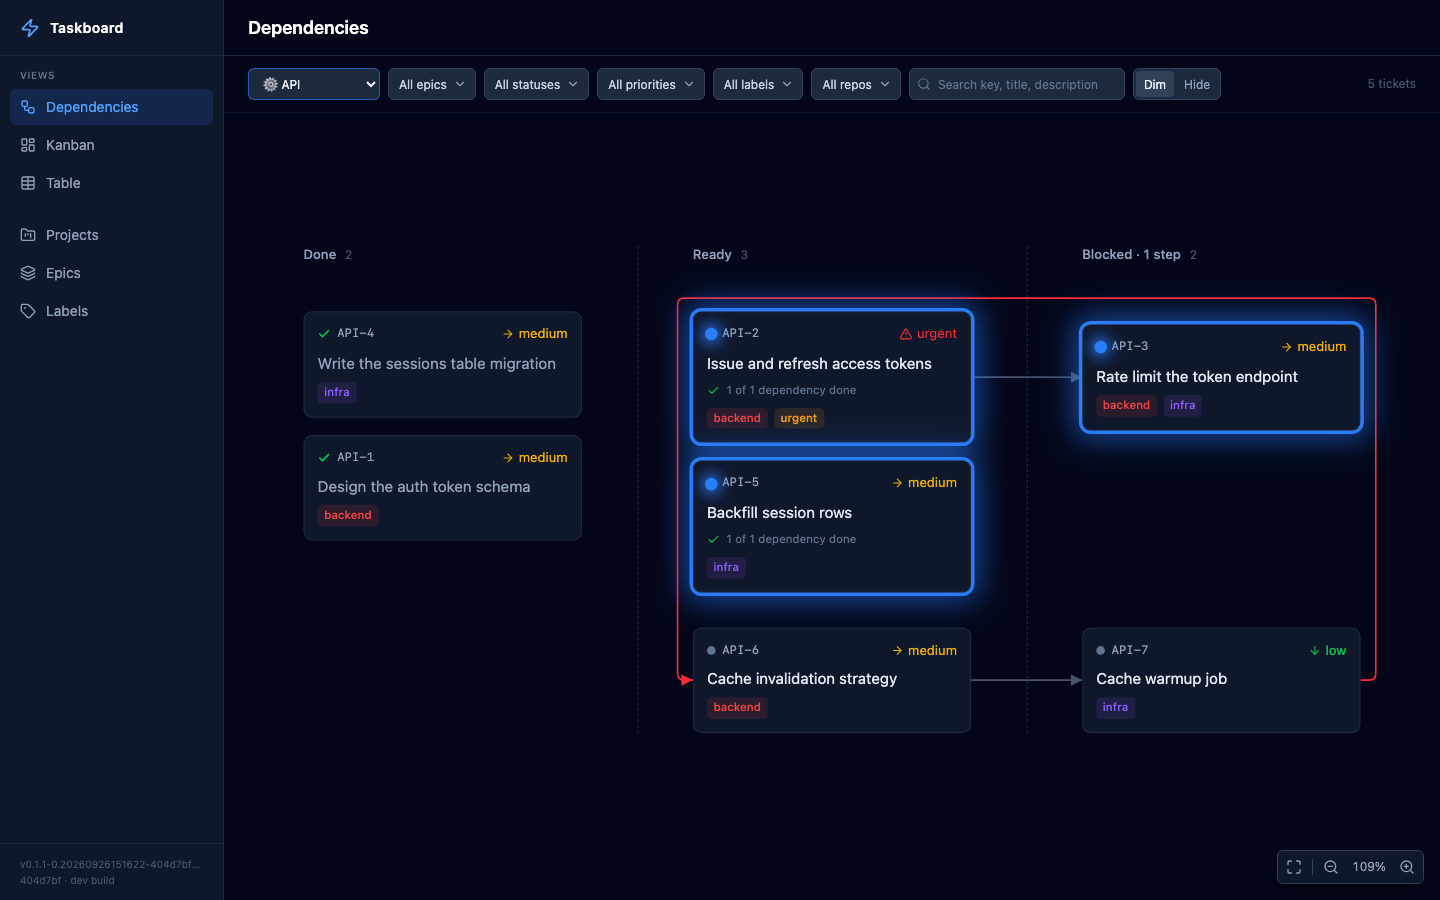
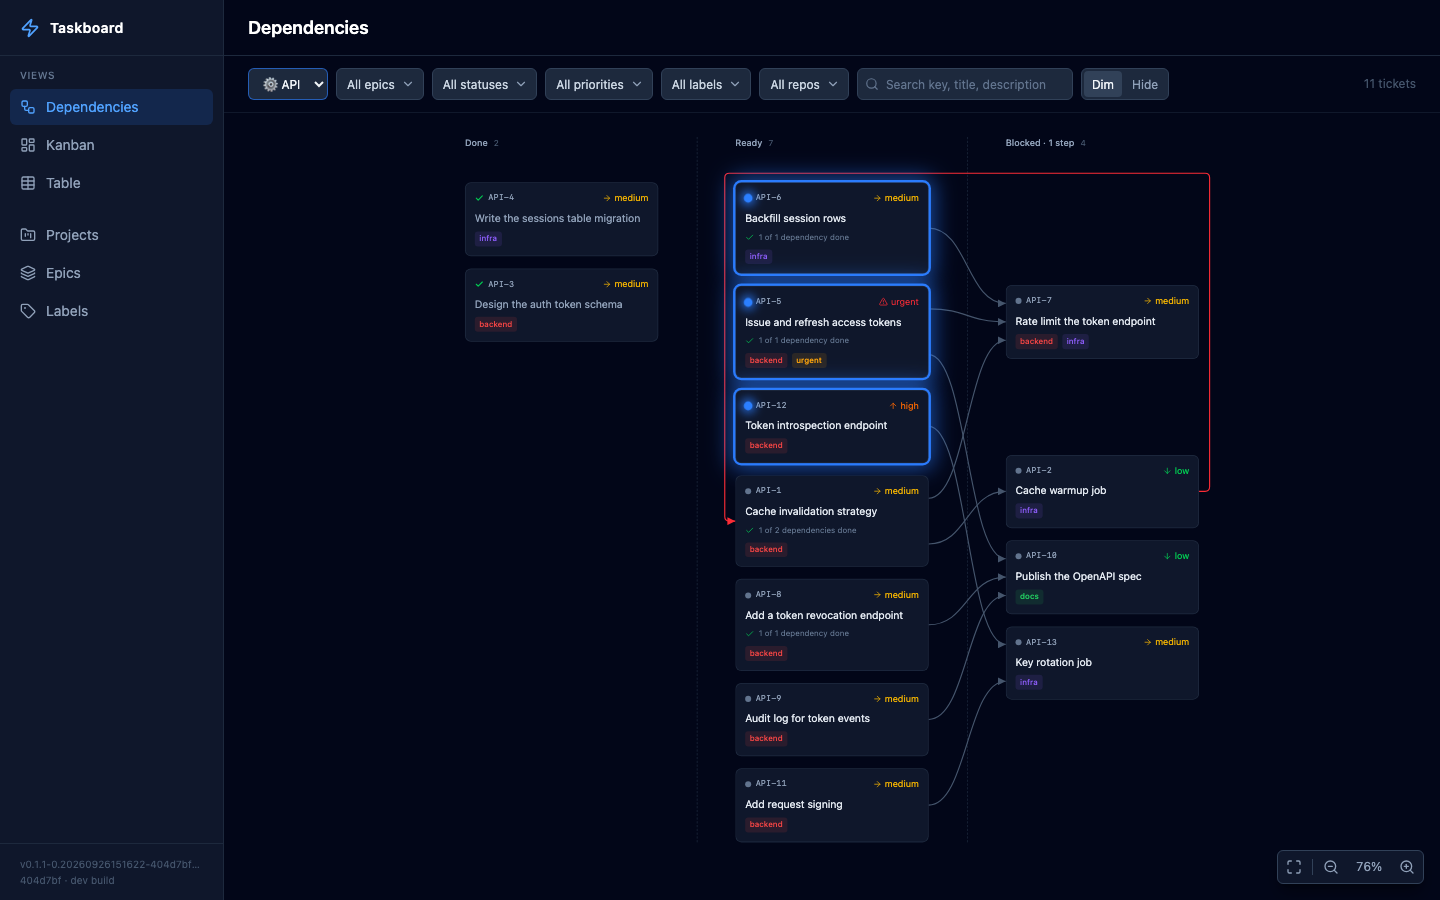
docs: say only the closing edge of a cycle is red, retake the graph screenshot

diff --git a/README.md b/README.md
@@ -15,7 +15,7 @@ Single binary. SQLite-backed. No Docker, no external database, no runtime depend
 ## Features
 
 - **Views** — the sidebar's Views group shows the same tickets three ways:
-  - **Dependencies**, the home page at `/`, puts open tickets in columns by how many steps of unfinished work block them, with arrows from each blocker and cycles drawn in red. Hover a card to trace what blocks it and what it blocks; pan, zoom or fit the graph to the screen
+  - **Dependencies**, the home page at `/`, puts open tickets in columns by how many steps of unfinished work block them, with arrows from each blocker and the edge that closes a cycle drawn in red. Hover a card to trace what blocks it and what it blocks; pan, zoom or fit the graph to the screen
   - **Kanban**, at `/kanban`, is drag-and-drop ticket management across Todo, In Progress, Agent Review, and Done columns
   - **Table**, at `/table`, lists tickets with their labels, repos, status, priority and due date
   - A filter bar shared by all three views narrows them by project, status, priority, label, repo and a text search over key, title and description. Filters live in the URL (for example `/kanban?project=ACP&status=todo&label=web`), so a filtered view can be bookmarked and switching views keeps them. Dependencies dims the tickets that don't match, keeping every arrow; Kanban and Table leave them out
